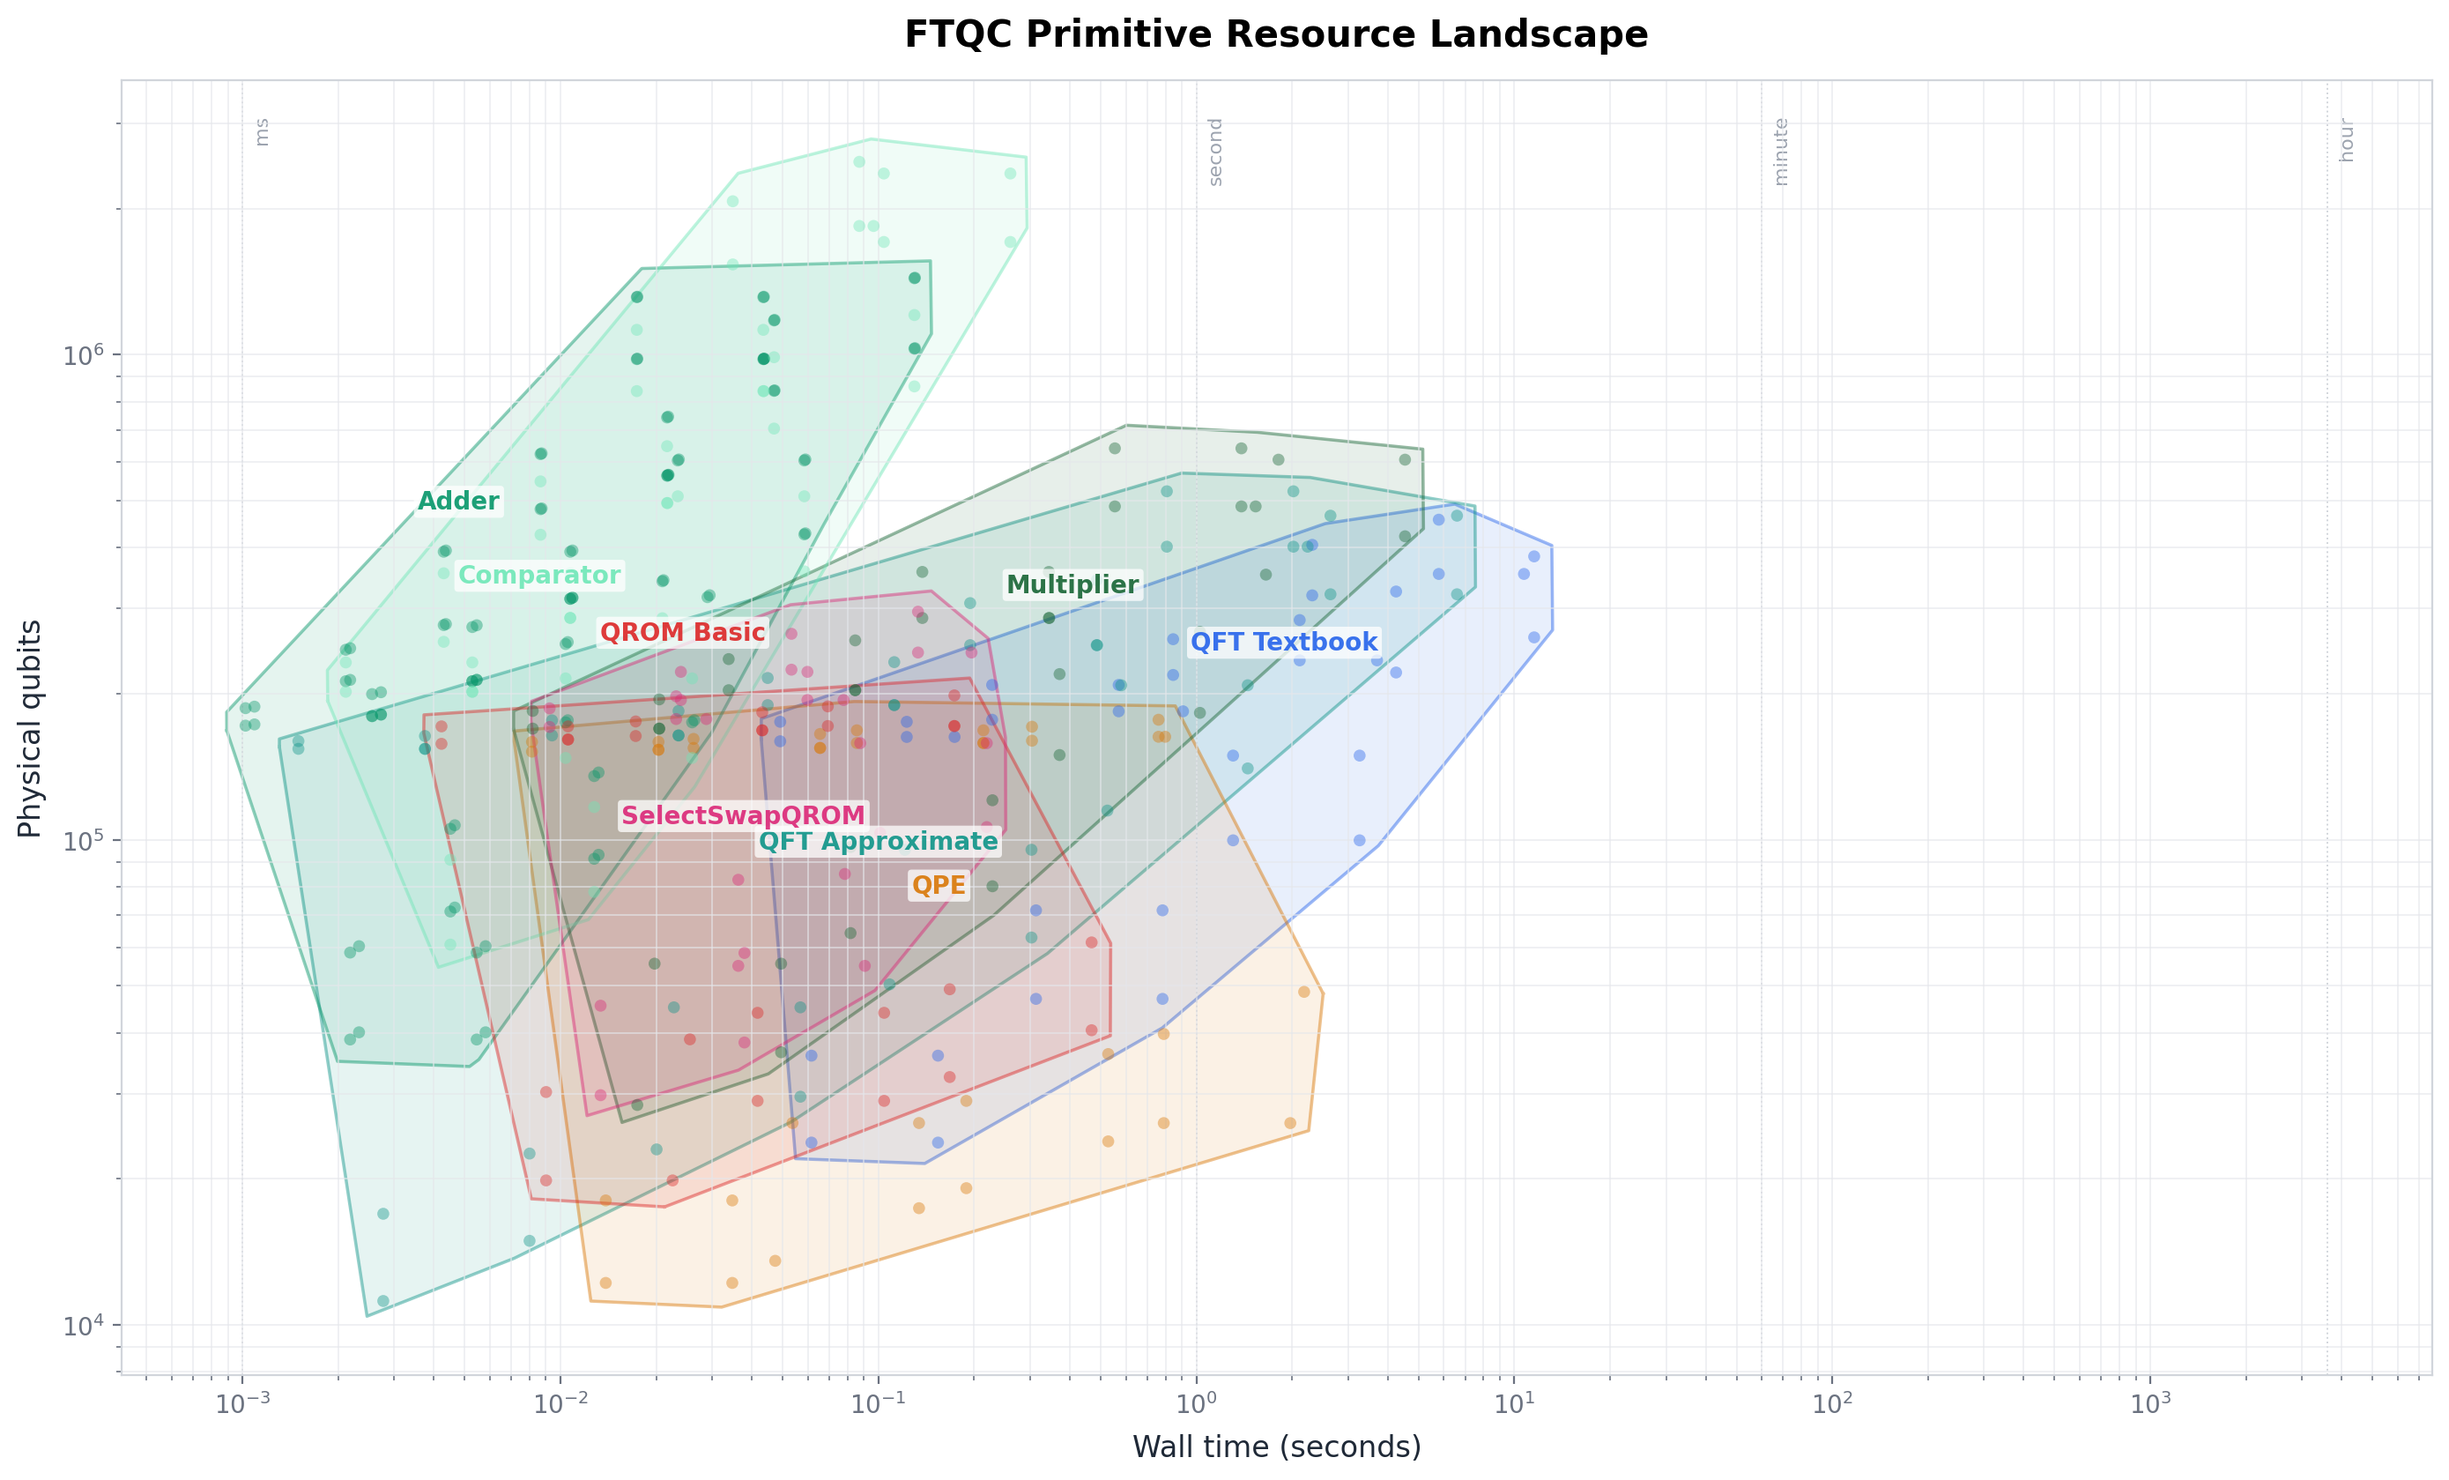
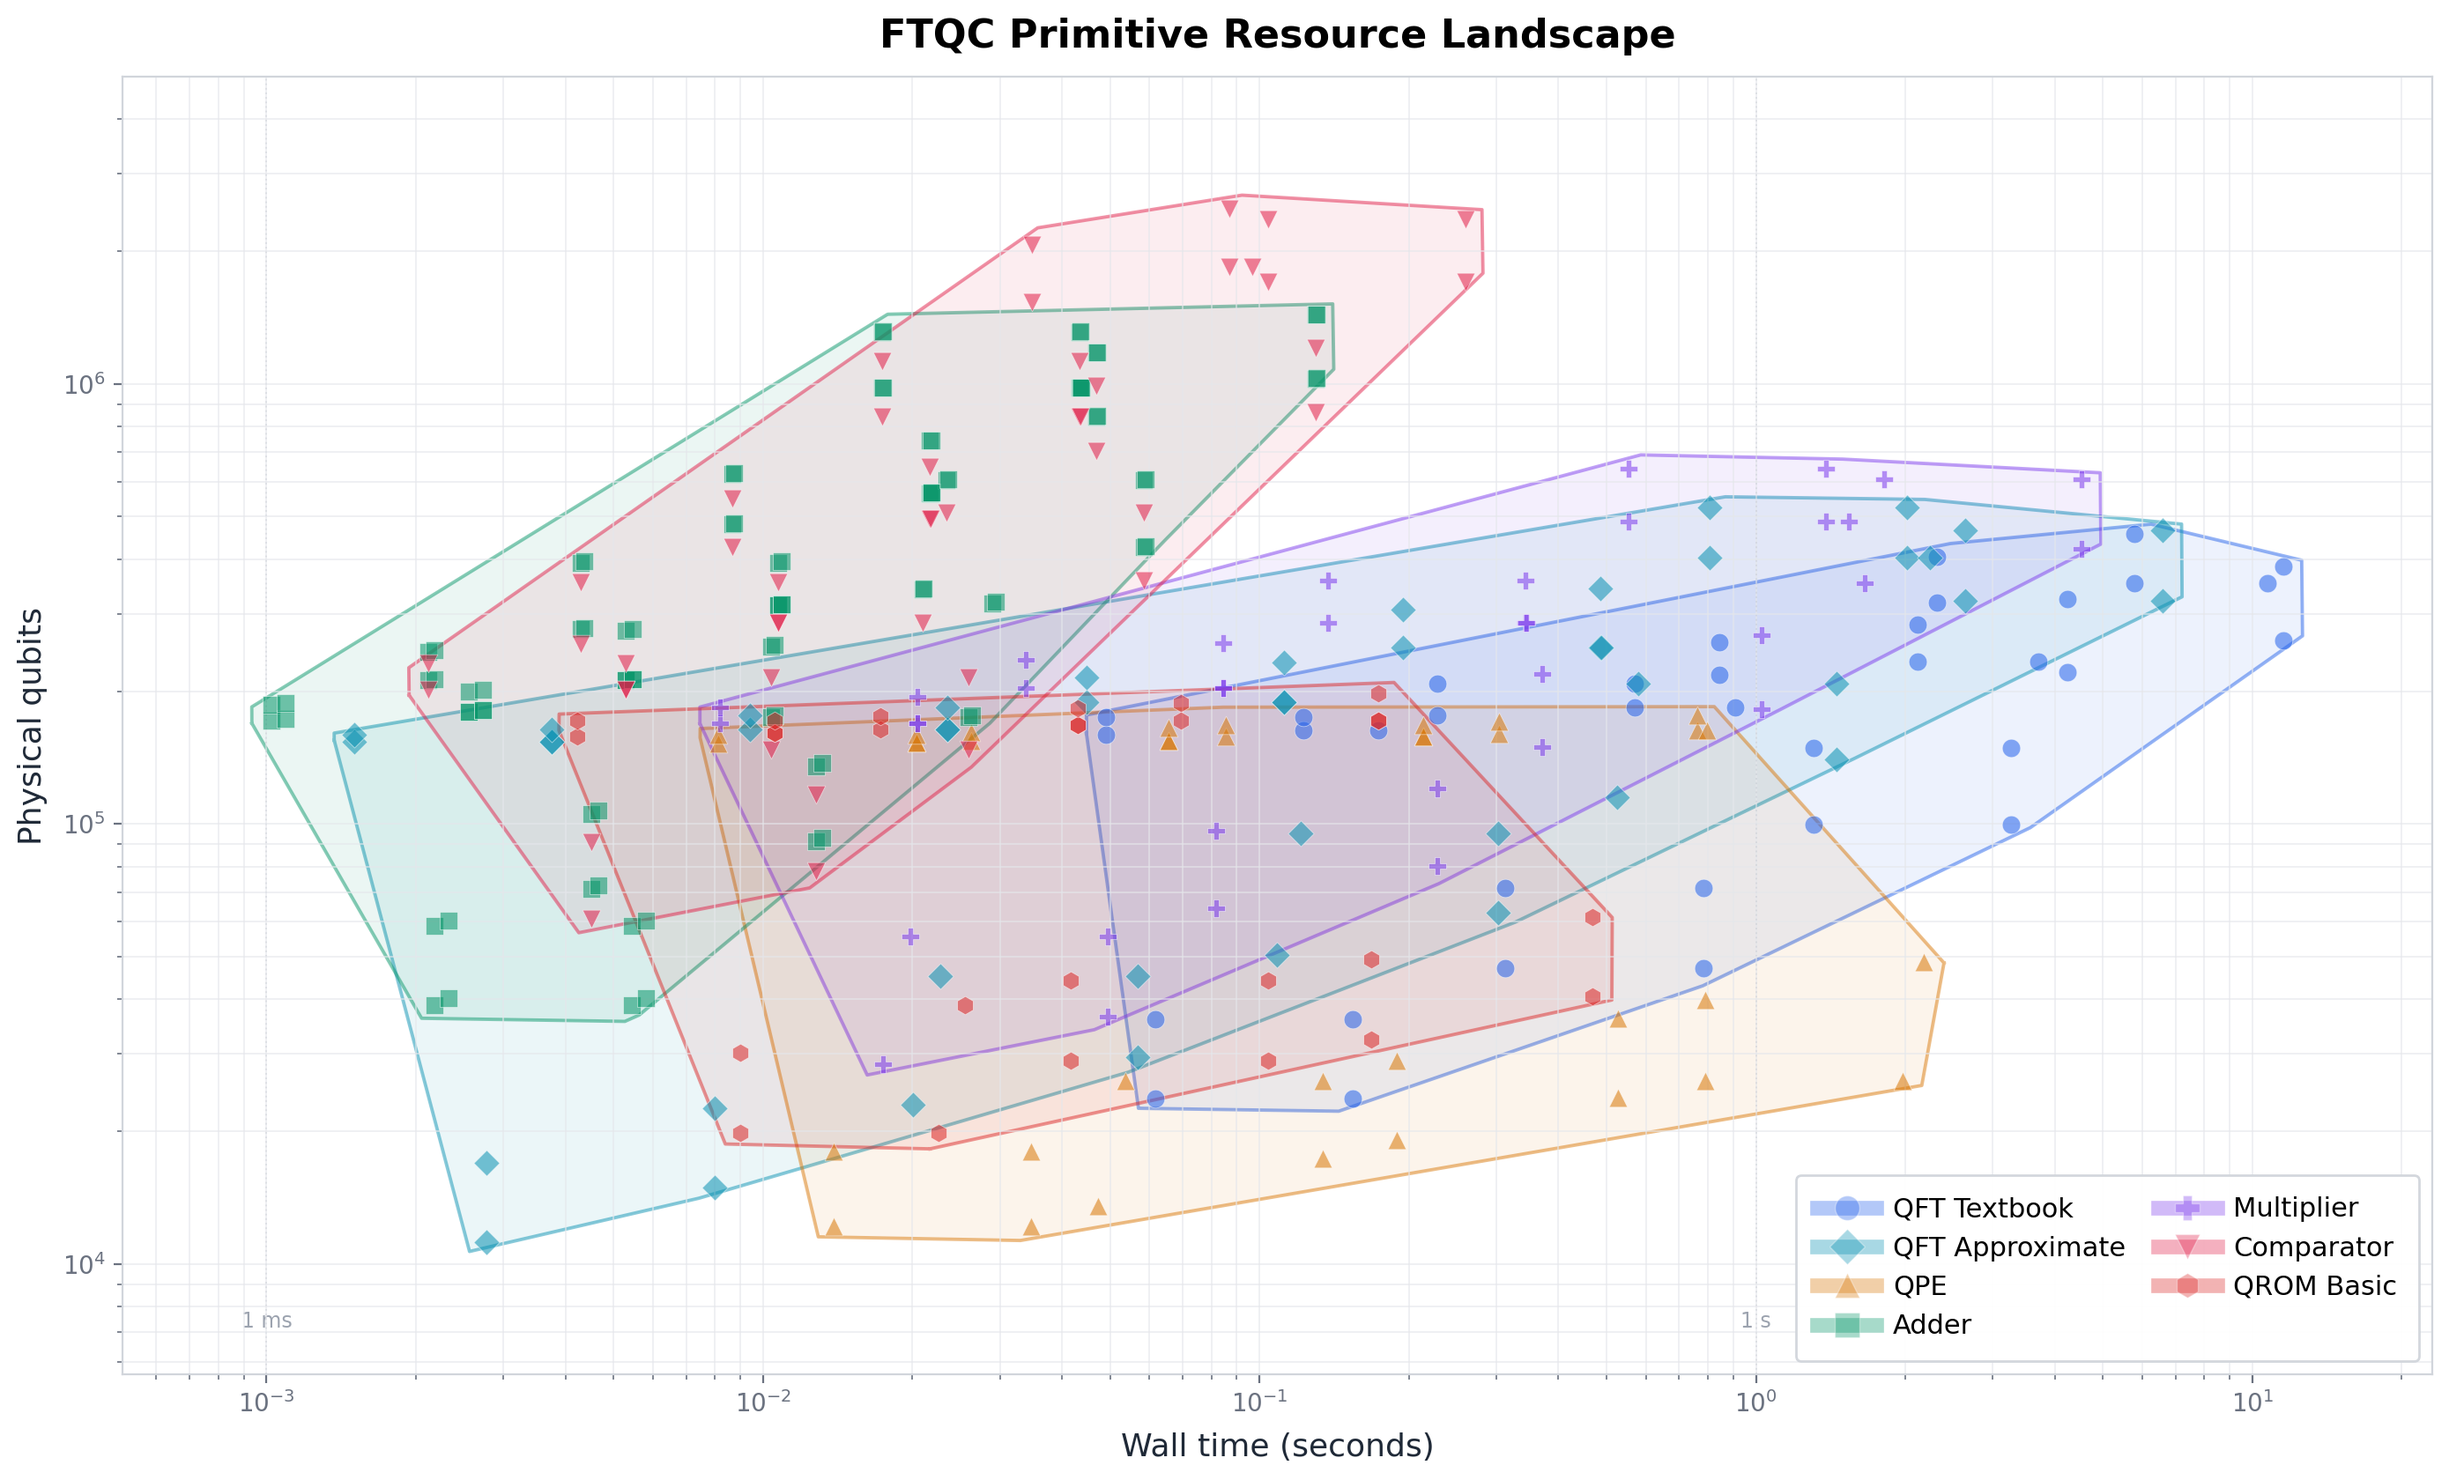
refactor: rewrite landscape.py for cleaner visualization

diff --git a/experiments/landscape.py b/experiments/landscape.py
@@ -5,6 +5,7 @@ hulls per primitive variant.
 
 Output:
   results/charts/landscape.png
+
 """
 
 from __future__ import annotations
@@ -13,11 +14,10 @@ from pathlib import Path
 
 import matplotlib.pyplot as plt
 import numpy as np
+from matplotlib.lines import Line2D
 from scipy.spatial import ConvexHull
 
-from _style import PALETTE, apply_theme, light_grid, savefig
-from ftprims.algorithms import registry
-from ftprims.physical import PhysicalModelSpec, estimate_physical
+from _style import apply_theme, light_grid, savefig
 
 
 CONFIGS = [
@@ -32,57 +32,57 @@ CONFIGS = [
     dict(profile="beverland", data_block="fast", factory="fifteen_to_one"),
 ]
 
-# Each entry is a visually distinct region on the landscape.
+# ── Visually distinct domains ─────────────────────────────────────────
+
 DOMAINS: dict[str, dict] = {
     "QFT Textbook": {
         "cases": [("qft", dict(n=n, variant="textbook")) for n in [16, 32, 64, 128]],
-        "color": PALETTE["blue"],
-        "label_offset": (0.35, 0.15),
+        "color": "#2563EB",  # blue
+        "marker": "o",
     },
     "QFT Approximate": {
         "cases": [("qft", dict(n=n, variant="approx")) for n in [8, 16, 32, 64, 128]],
-        "color": PALETTE["teal"],
-        "label_offset": (-0.05, -0.25),
+        "color": "#0891B2",  # cyan
+        "marker": "D",
     },
     "QPE": {
         "cases": [("qpe", dict(m=m, phi=0.25)) for m in [6, 8, 10, 12]],
-        "color": PALETTE["orange"],
-        "label_offset": (0.15, -0.28),
+        "color": "#D97706",  # amber
+        "marker": "^",
     },
     "Adder": {
-        "cases": [("arithmetic", dict(n=n, op="add")) for n in [16, 32, 64, 128, 256]]
-        + [("arithmetic", dict(n=n, op="add_oop")) for n in [16, 32, 64, 128, 256]],
-        "color": PALETTE["green"],
-        "label_offset": (-0.35, 0.2),
+        "cases": [
+            ("arithmetic", dict(n=n, op=op))
+            for op in ("add", "add_oop")
+            for n in [16, 32, 64, 128, 256]
+        ],
+        "color": "#059669",  # emerald
+        "marker": "s",
     },
     "Multiplier": {
         "cases": [("arithmetic", dict(n=n, op="mul")) for n in [8, 16, 32, 64]],
-        "color": "#166534",  # dark green
-        "label_offset": (0.35, 0.2),
+        "color": "#7C3AED",  # violet
+        "marker": "P",
     },
     "Comparator": {
         "cases": [("arithmetic", dict(n=n, op="leq")) for n in [16, 32, 64, 128, 256]],
-        "color": "#6EE7B7",  # light green
-        "label_offset": (-0.4, -0.15),
+        "color": "#E11D48",  # rose
+        "marker": "v",
     },
     "QROM Basic": {
         "cases": [
             ("qrom", dict(data_size=N, variant="basic")) for N in [64, 256, 1024]
         ],
-        "color": PALETTE["red"],
-        "label_offset": (-0.25, 0.22),
-    },
-    "SelectSwapQROM": {
-        "cases": [
-            ("qrom", dict(data_size=N, variant="selectswap")) for N in [64, 256, 1024]
-        ],
-        "color": PALETTE["pink"],
-        "label_offset": (-0.15, -0.2),
+        "color": "#DC2626",  # red
+        "marker": "h",
     },
 }
 
 
 def collect() -> dict[str, list[tuple[float, float]]]:
+    from ftprims.algorithms import registry
+    from ftprims.physical import PhysicalModelSpec, estimate_physical
+
     results: dict[str, list[tuple[float, float]]] = {}
     for domain, spec in DOMAINS.items():
         points: list[tuple[float, float]] = []
@@ -102,7 +102,11 @@ def collect() -> dict[str, list[tuple[float, float]]]:
     return results
 
 
-def _hull_polygon(points: np.ndarray, pad_log: float = 0.06):
+def _hull_polygon(
+    points: np.ndarray,
+    pad_log: float = 0.04,
+) -> np.ndarray | None:
+    """Convex hull in log-space with small outward padding."""
     log_pts = np.log10(points)
     if len(log_pts) < 3:
         return None
@@ -121,80 +125,136 @@ def _hull_polygon(points: np.ndarray, pad_log: float = 0.06):
 
 
 _TIME_MARKERS = [
-    (1e-3, "ms"),
-    (1, "second"),
-    (60, "minute"),
-    (3600, "hour"),
+    (1e-3, "1 ms"),
+    (1, "1 s"),
+    (60, "1 min"),
+    (3600, "1 h"),
 ]
 
 
 def plot(results: dict[str, list[tuple[float, float]]], path: Path) -> None:
     fig, ax = plt.subplots(figsize=(14, 8.5))
 
+    legend_handles: list[Line2D] = []
+
+    all_xs: list[float] = []
+    all_ys: list[float] = []
+
     for domain, spec in DOMAINS.items():
-        pts = results[domain]
+        pts = results.get(domain, [])
         if not pts:
             continue
         color = spec["color"]
+        marker = spec["marker"]
         arr = np.array(pts)
         xs, ys = arr[:, 0], arr[:, 1]
+        all_xs.extend(xs.tolist())
+        all_ys.extend(ys.tolist())
 
-        ax.scatter(xs, ys, c=color, s=24, alpha=0.4, zorder=2, edgecolors="none")
+        # Scatter - large markers, semi-opaque.
+        ax.scatter(
+            xs,
+            ys,
+            c=color,
+            marker=marker,
+            s=55,
+            alpha=0.55,
+            zorder=3,
+            edgecolors="white",
+            linewidths=0.3,
+        )
 
+        # Convex hull region.
         hull = _hull_polygon(arr)
         if hull is not None:
-            ax.fill(hull[:, 0], hull[:, 1], color=color, alpha=0.10, zorder=1)
-            ax.plot(hull[:, 0], hull[:, 1], color=color, alpha=0.40, lw=1.3, zorder=1)
+            ax.fill(
+                hull[:, 0],
+                hull[:, 1],
+                color=color,
+                alpha=0.08,
+                zorder=1,
+            )
+            ax.plot(
+                hull[:, 0],
+                hull[:, 1],
+                color=color,
+                alpha=0.45,
+                lw=1.4,
+                zorder=1,
+            )
 
-        dx, dy = spec.get("label_offset", (0, 0))
-        cx = 10 ** (np.log10(np.median(xs)) + dx)
-        cy = 10 ** (np.log10(np.median(ys)) + dy)
-        ax.text(
-            cx,
-            cy,
-            domain,
-            fontsize=10,
-            fontweight="bold",
-            color=color,
-            alpha=0.9,
-            ha="center",
-            va="center",
-            zorder=3,
-            bbox=dict(
-                boxstyle="round,pad=0.15",
-                facecolor="white",
-                alpha=0.75,
-                edgecolor="none",
-            ),
+        # Legend entry — marker + filled hull swatch.
+        legend_handles.append(
+            Line2D(
+                [0],
+                [0],
+                marker=marker,
+                color=color,
+                markerfacecolor=color,
+                markersize=12,
+                markeredgecolor="white",
+                markeredgewidth=0.5,
+                linewidth=7,
+                alpha=0.45,
+                label=domain,
+            )
         )
 
     ax.set_xscale("log")
     ax.set_yscale("log")
 
-    # Time reference lines.
-    ylims = ax.get_ylim()
-    for t_sec, label in _TIME_MARKERS:
-        ax.axvline(t_sec, color="#D1D5DB", lw=0.7, ls=":", zorder=0)
-        ax.text(
-            t_sec * 1.08,
-            ylims[1] * 0.85,
-            label,
-            fontsize=8,
-            color="#9CA3AF",
-            va="top",
-            rotation=90,
-            zorder=0,
+    # Tight axis limits.
+    if all_xs and all_ys:
+        pad = 0.3
+        ax.set_xlim(
+            10 ** (np.log10(min(all_xs)) - pad),
+            10 ** (np.log10(max(all_xs)) + pad),
+        )
+        ax.set_ylim(
+            10 ** (np.log10(min(all_ys)) - pad),
+            10 ** (np.log10(max(all_ys)) + pad),
         )
 
-    ax.set_xlabel("Wall time (seconds)", fontsize=12)
-    ax.set_ylabel("Physical qubits", fontsize=12)
+    # Time reference lines.
+    ylims = ax.get_ylim()
+    xlims = ax.get_xlim()
+    for t_sec, label in _TIME_MARKERS:
+        if xlims[0] <= t_sec <= xlims[1]:
+            ax.axvline(t_sec, color="#D1D5DB", lw=0.7, ls=":", zorder=0)
+            ax.text(
+                t_sec,
+                ylims[0] * 1.25,
+                label,
+                fontsize=8.5,
+                color="#9CA3AF",
+                ha="center",
+                va="bottom",
+                zorder=0,
+            )
+
+    ax.set_xlabel("Wall time (seconds)", fontsize=13)
+    ax.set_ylabel("Physical qubits", fontsize=13)
     ax.set_title(
         "FTQC Primitive Resource Landscape",
-        fontsize=15,
+        fontsize=16,
         fontweight="semibold",
-        pad=14,
+        pad=12,
     )
+
     light_grid(ax, which="both")
+
+    # Single legend - marker + colour band, 2 columns, right side.
+    ax.legend(
+        handles=legend_handles,
+        fontsize=11,
+        loc="lower right",
+        framealpha=0.94,
+        ncol=2,
+        columnspacing=1.2,
+        borderpad=0.8,
+        handletextpad=0.6,
+        handlelength=2.2,
+    )
 
     plt.tight_layout()
     savefig(fig, path)

diff --git a/README.md b/README.md
@@ -1,14 +1,16 @@
 # ftprims
 Fault-tolerant quantum computing (FTQC) primitives benchmark suite. Built on [Qualtran](https://qualtran.readthedocs.io/) + [Cirq](https://quantumai.google/cirq) with native [QREF](https://github.com/PsiQ/qref) / [Bartiq](https://github.com/PsiQ/bartiq) export. Benchmark canonical FTQC building blocks, extract logical & physical resource costs via Qualtran, verify correctness with Cirq simulation, and export results as QREF programs for cost propagation in Bartiq.
 
+> [!NOTE]
+> Learning project - built to deepen hands-on understanding of FTQC resource estimation, Qualtran's bloq abstractions, and the QREF/Bartiq toolchain. Simplifications and approximations often appear in the design.
+
 <p align="center">
   <img src="landscape.png" width="850" alt="FTQC Primitive Resource Landscape">
 </p>
 
-*Physical resource landscape across 9 surface-code configurations — each region shows the qubits × time footprint of a primitive variant as problem size scales. Inspired by [Beverland et al.](https://arxiv.org/abs/2211.07629)*
-
-> [!NOTE]
-> Learning project - built to deepen hands-on understanding of FTQC resource estimation, Qualtran's bloq abstractions, and the QREF/Bartiq toolchain. Simplifications and approximations often appear in the design.
+<p align="center">
+  <em>Physical resource landscape: each region shows the qubits x time footprint of a primitive variant as problem size scales. Every primitive is evaluated across 9 surface-code configurations: 2 QEC profiles (Gidney-Fowler, Beverland) x data blocks (simple, compact, fast) x magic-state factories (CCZ2T, 15-to-1). Inspired by [Beverland et al.](https://arxiv.org/abs/2211.07629)</em>
+</p>
 
 ### Primitives
 
